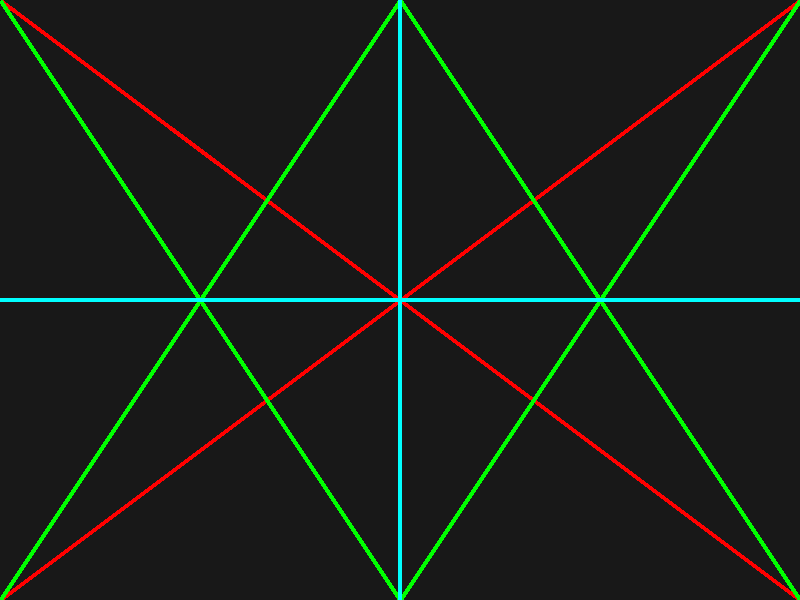
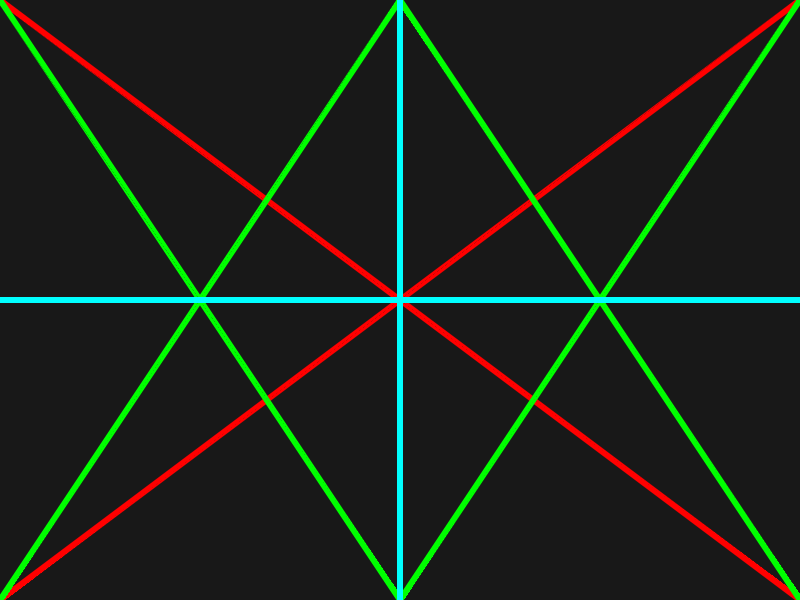
Implemented the Anti-aliasing for triangle filling

diff --git a/neovin.c b/neovin.c
@@ -105,12 +105,12 @@ NEOVINCDEF float NVC_Vec2D_Angle(Vec2D vec)
     return atan2f(vec.y, vec.x);
 }
 
-NEOVINCDEF Vec2D NVC_Vec2D_Add(Vec2D vec1, Vec2D vec2)
+NEOVINCDEF Vec2D NVC_Vec2D_Plus(Vec2D vec1, Vec2D vec2)
 {
     return Vec2D(vec1.x + vec2.x, vec1.y + vec2.y);
 }
 
-NEOVINCDEF Vec2D NVC_Vec2D_Subtract(Vec2D vec1, Vec2D vec2)
+NEOVINCDEF Vec2D NVC_Vec2D_Minus(Vec2D vec1, Vec2D vec2)
 {
     return Vec2D(vec1.x - vec2.x, vec1.y - vec2.y);
 }
@@ -469,11 +469,15 @@ NEOVINCDEF void NVC_Draw_Line(NVC_Canvas oc, Vec2D p1, Vec2D p2, uint32_t color)
     }
 }
 
-NEOVINCDEF void NVC_Draw_Triangle(NVC_Canvas oc, Vec2D p1, Vec2D p2, Vec2D p3, uint32_t color)
+NEOVINCDEF bool NVC_IS_IN_TRIANGLE(Vec2D p, Vec2D p1, Vec2D p2, Vec2D p3)
 {
-    NVC_Draw_Line(oc, p1, p2, color);
-    NVC_Draw_Line(oc, p2, p3, color);
-    NVC_Draw_Line(oc, p3, p1, color);
+    Vec2D v12 = NVC_Vec2D_Minus(p2, p1);
+    Vec2D v23 = NVC_Vec2D_Minus(p3, p2);
+    Vec2D v31 = NVC_Vec2D_Minus(p1, p3);
+    Vec2D v1 = NVC_Vec2D_Minus(p, p1);
+    Vec2D v2 = NVC_Vec2D_Minus(p, p2);
+    Vec2D v3 = NVC_Vec2D_Minus(p, p3);
+    return (NVC_SIGN(float, NVC_Vec2D_Cross(v1, v12)) == NVC_SIGN(float, NVC_Vec2D_Cross(v2, v23)) && NVC_SIGN(float, NVC_Vec2D_Cross(v1, v12)) == NVC_SIGN(float, NVC_Vec2D_Cross(v3, v31)));
 }
 
 NEOVINCDEF void NVC_Fill_Triangle(NVC_Canvas oc, Vec2D p1, Vec2D p2, Vec2D p3, uint32_t color)
@@ -490,19 +494,24 @@ NEOVINCDEF void NVC_Fill_Triangle(NVC_Canvas oc, Vec2D p1, Vec2D p2, Vec2D p3, u
     if (p2.y < y_min) y_min = p2.y;
     if (p3.x < x_min) x_min = p3.x;
     if (p3.y < y_min) y_min = p3.y;
-    Vec2D v12 = NVC_Vec2D_Subtract(p2, p1);
-    Vec2D v23 = NVC_Vec2D_Subtract(p3, p2);
-    Vec2D v31 = NVC_Vec2D_Subtract(p1, p3);
     int x1, x2, y1, y2;
     NVC_Normalize_Range(oc, Vec2D(x_min, y_min), Vec2D(x_max - x_min, y_max - y_min), &x1, &x2, &y1, &y2);
     for (int y = y1; y <= y2; ++y) {
         for (int x = x1; x <= x2; ++x) {
-            Vec2D v1 = NVC_Vec2D_Subtract(Vec2D(x, y), p1);
-            Vec2D v2 = NVC_Vec2D_Subtract(Vec2D(x, y), p2);
-            Vec2D v3 = NVC_Vec2D_Subtract(Vec2D(x, y), p3);
-            if (NVC_SIGN(float, NVC_Vec2D_Cross(v1, v12)) == NVC_SIGN(float, NVC_Vec2D_Cross(v2, v23)) && NVC_SIGN(float, NVC_Vec2D_Cross(v1, v12)) == NVC_SIGN(float, NVC_Vec2D_Cross(v3, v31))) {
-                NVC_Draw_Pixel(oc, Vec2D(x, y), color);
-
+            int count = 0;
+            for (int sy = 0; sy < NVC_AA_RES; ++sy) {
+                float ay = y + NVC_AA_PAD*0.5 + sy*NVC_AA_PAD;
+                for (int sx = 0; sx < NVC_AA_RES; ++sx) {
+                    float ax = x + NVC_AA_PAD*0.5 + sx*NVC_AA_PAD;
+                    if (NVC_IS_IN_TRIANGLE(Vec2D(ax, ay), p1, p2, p3)) {
+                        count += 1;
+                    }
+                }
+            }
+            if (count > 0) {
+                uint32_t pixel_color = color;
+                Transparent_Color(&pixel_color, ((float)count/(NVC_AA_RES*NVC_AA_RES)));
+                NVC_Draw_Pixel(oc, Vec2D(x, y), pixel_color);
             }
         }
     }
@@ -528,7 +537,7 @@ NEOVINCDEF void NVC_Draw_Line_Ex(NVC_Canvas oc, Vec2D p1, Vec2D p2, float thick,
         return;
     }
 
-    Vec2D dir = NVC_Vec2D_Subtract(p2, p1);
+    Vec2D dir = NVC_Vec2D_Minus(p2, p1);
     float len = NVC_Vec2D_Length(dir);
     // if (len < 0.001f) return;
 
@@ -536,15 +545,22 @@ NEOVINCDEF void NVC_Draw_Line_Ex(NVC_Canvas oc, Vec2D p1, Vec2D p2, float thick,
     Vec2D n = { -u.y, u.x };
 
     Vec2D offset = Vec2D(n.x * thick * 0.5f, n.y * thick * 0.5f);
-    Vec2D A = NVC_Vec2D_Add(p1, offset);
-    Vec2D B = NVC_Vec2D_Subtract(p1, offset);
-    Vec2D C = NVC_Vec2D_Add(p2, offset);
-    Vec2D D = NVC_Vec2D_Subtract(p2, offset);
+    Vec2D A = NVC_Vec2D_Plus(p1, offset);
+    Vec2D B = NVC_Vec2D_Minus(p1, offset);
+    Vec2D C = NVC_Vec2D_Plus(p2, offset);
+    Vec2D D = NVC_Vec2D_Minus(p2, offset);
 
     NVC_Fill_Triangle(oc, A, B, D, color);
     NVC_Fill_Triangle(oc, A, C, D, color);
+    NVC_Draw_Line(oc, A, D, color);
 }
 
+NEOVINCDEF void NVC_Draw_Triangle(NVC_Canvas oc, Vec2D p1, Vec2D p2, Vec2D p3, float thick, uint32_t color)
+{
+    NVC_Draw_Line_Ex(oc, p1, p2, thick, color);
+    NVC_Draw_Line_Ex(oc, p2, p3, thick, color);
+    NVC_Draw_Line_Ex(oc, p3, p1, thick, color);
+}
 
 #endif // NEOVIN_C_
 

diff --git a/example.c b/example.c
@@ -160,17 +160,17 @@ bool lines_example(const char *file_path)
     // 0xAABBGGRR
     NVC_Fill_Background(oc, BACKGROUND_COLOR);
 
-    NVC_Draw_Line_Ex(oc, Vec2D(0, 0), Vec2D(WIDTH, HEIGHT), 4, 0xFF0000FF);
-    NVC_Draw_Line_Ex(oc, Vec2D(0, HEIGHT), Vec2D(WIDTH, 0), 4, 0xFF0000FF);
+    NVC_Draw_Line_Ex(oc, Vec2D(0, 0), Vec2D(WIDTH, HEIGHT), 6, 0xFF0000FF);
+    NVC_Draw_Line_Ex(oc, Vec2D(0, HEIGHT), Vec2D(WIDTH, 0), 6, 0xFF0000FF);
 
-    NVC_Draw_Line_Ex(oc, Vec2D(0, 0), Vec2D((float)WIDTH/2, HEIGHT), 4, 0xFF00FF00);
-    NVC_Draw_Line_Ex(oc, Vec2D(0, HEIGHT), Vec2D((float)WIDTH/2, 0), 4, 0xFF00FF00);
+    NVC_Draw_Line_Ex(oc, Vec2D(0, 0), Vec2D((float)WIDTH/2, HEIGHT), 6, 0xFF00FF00);
+    NVC_Draw_Line_Ex(oc, Vec2D(0, HEIGHT), Vec2D((float)WIDTH/2, 0), 6, 0xFF00FF00);
 
-    NVC_Draw_Line_Ex(oc, Vec2D((float)WIDTH/2, 0), Vec2D(WIDTH, HEIGHT), 4, 0xFF00FF00);
-    NVC_Draw_Line_Ex(oc, Vec2D((float)WIDTH/2, HEIGHT), Vec2D(WIDTH, 0), 4, 0xFF00FF00);
+    NVC_Draw_Line_Ex(oc, Vec2D((float)WIDTH/2, 0), Vec2D(WIDTH, HEIGHT), 6, 0xFF00FF00);
+    NVC_Draw_Line_Ex(oc, Vec2D((float)WIDTH/2, HEIGHT), Vec2D(WIDTH, 0), 6, 0xFF00FF00);
 
-    NVC_Draw_Line_Ex(oc, Vec2D(0, (float)HEIGHT/2), Vec2D(WIDTH, (float)HEIGHT/2), 4, 0xFFFFFF00);
-    NVC_Draw_Line_Ex(oc, Vec2D((float)WIDTH/2, 0), Vec2D((float)WIDTH/2, HEIGHT), 4, 0xFFFFFF00);
+    NVC_Draw_Line_Ex(oc, Vec2D(0, (float)HEIGHT/2), Vec2D(WIDTH, (float)HEIGHT/2), 6, 0xFFFFFF00);
+    NVC_Draw_Line_Ex(oc, Vec2D((float)WIDTH/2, 0), Vec2D((float)WIDTH/2, HEIGHT), 6, 0xFFFFFF00);
 
     if (!stbi_write_png(file_path, oc.width, oc.height, 4, oc.pixels, oc.width*sizeof(uint32_t))) {
         fprintf(stderr, "ERROR: could not save file %s: %s\n", file_path, strerror(errno));
@@ -199,6 +199,7 @@ bool triangles_example(const char *file_path)
                         Vec2D(x*CELL_WIDTH + (float)CELL_WIDTH/2, y*CELL_HEIGHT),
                         Vec2D(x*CELL_WIDTH, y*CELL_HEIGHT + CELL_HEIGHT),
                         Vec2D(x*CELL_WIDTH + CELL_WIDTH, y*CELL_HEIGHT + CELL_HEIGHT),
+                        2,
                         FOREGROUND_COLOR);
             }
         }
